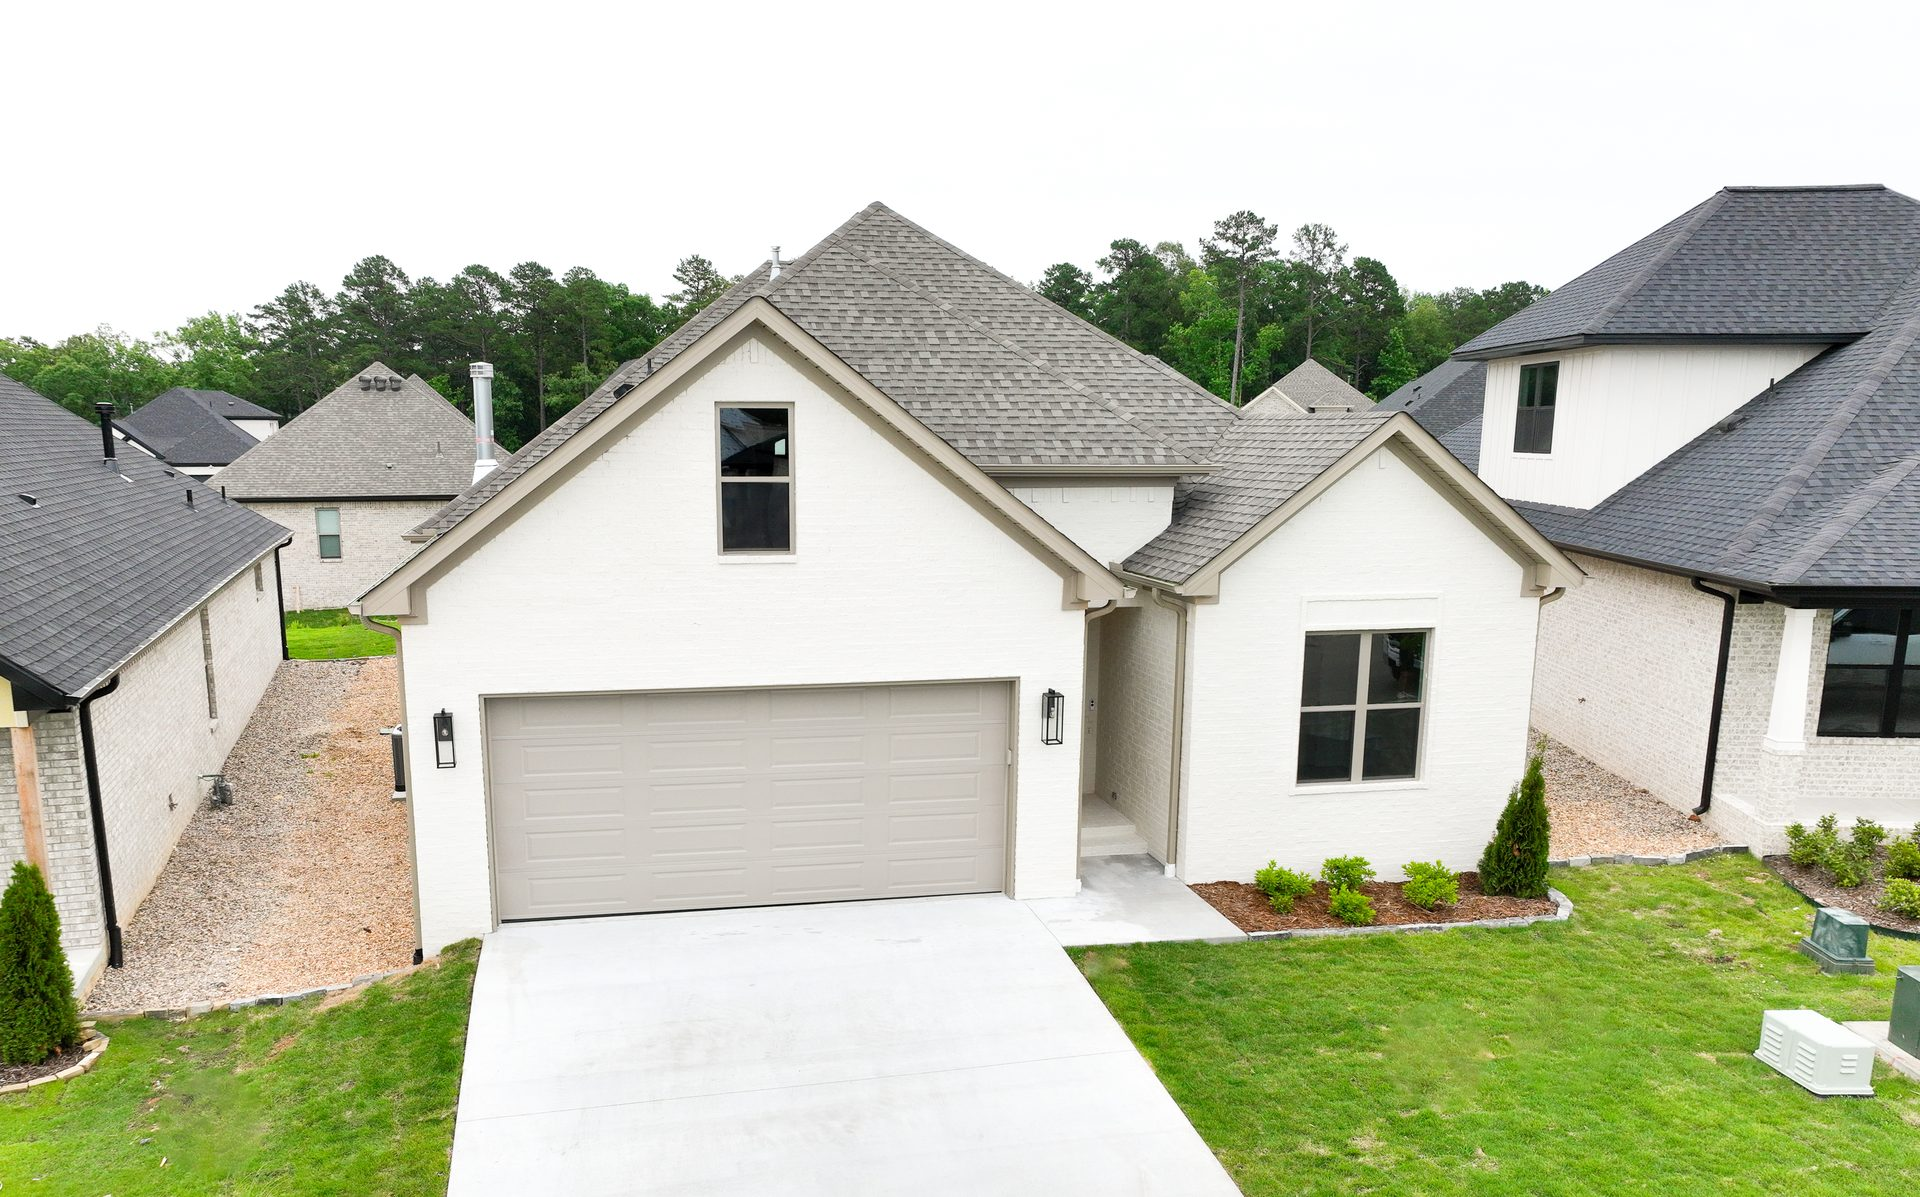
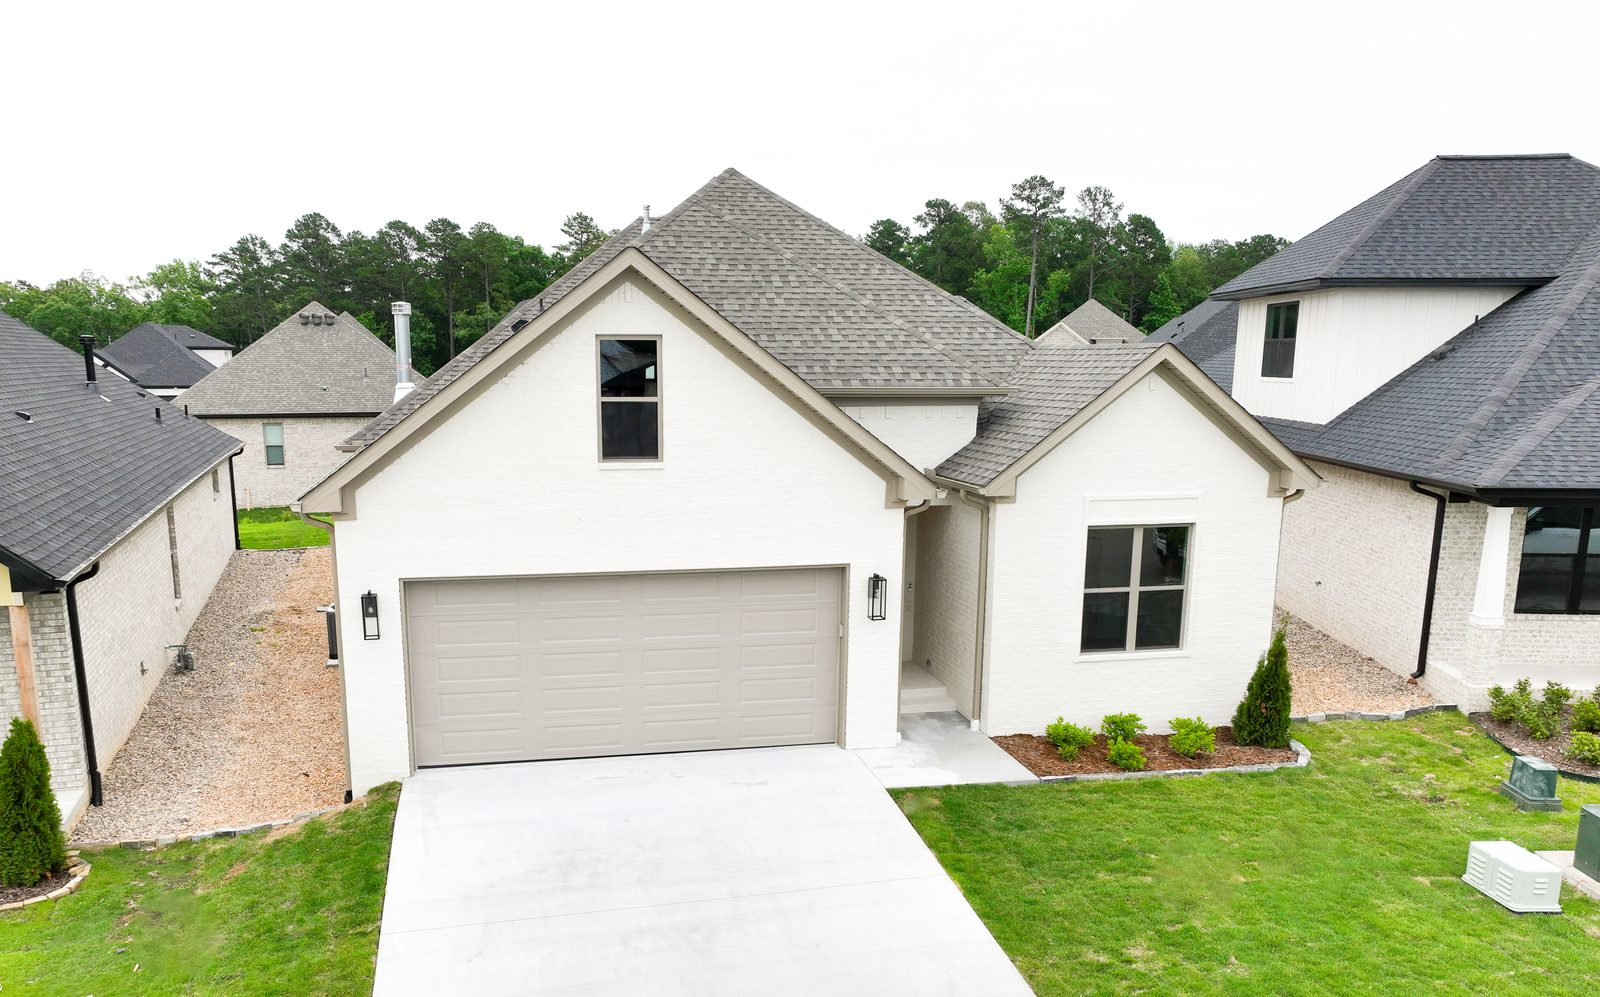
feat(site): upgrade 3 project hero tiles to best-graded finished exteriors (115 Bear Den pool, 154 Fletcher Ridge, 362 Fletcher)

diff --git a/projects/index.html b/projects/index.html
@@ -131,7 +131,7 @@
       <!-- COMPLETED -->
       <a class="project-card" href="115-bear-den-ct.html" data-status="completed">
         <div class="card-photo">
-          <img src="../photos/projects/115-bear-den-ct/DP0A1161-web.jpg" alt="115 Bear Den Court"/>
+          <img src="../photos/projects/115-bear-den-ct/PNG-16-web.jpg" alt="115 Bear Den Court"/>
           <div class="card-status">Completed</div>
         </div>
         <div class="card-body">
@@ -144,7 +144,7 @@
 
       <a class="project-card" href="154-fletcher-ridge-dr.html" data-status="completed">
         <div class="card-photo">
-          <img src="../photos/projects/154-fletcher-ridge-dr/DP0A2125-web.jpg" alt="154 Fletcher Ridge Drive"/>
+          <img src="../photos/projects/154-fletcher-ridge-dr/DP0A2157-web.jpg" alt="154 Fletcher Ridge Drive"/>
           <div class="card-status">Completed</div>
         </div>
         <div class="card-body">
@@ -157,7 +157,7 @@
 
       <a class="project-card" href="362-fletcher-lp.html" data-status="completed">
         <div class="card-photo">
-          <img src="../photos/projects/362-fletcher-lp/DP0A0905-web.jpg" alt="362 Fletcher Loop"/>
+          <img src="../photos/projects/362-fletcher-lp/DJI_0407-web.jpg" alt="362 Fletcher Loop"/>
           <div class="card-status">Completed</div>
         </div>
         <div class="card-body">
